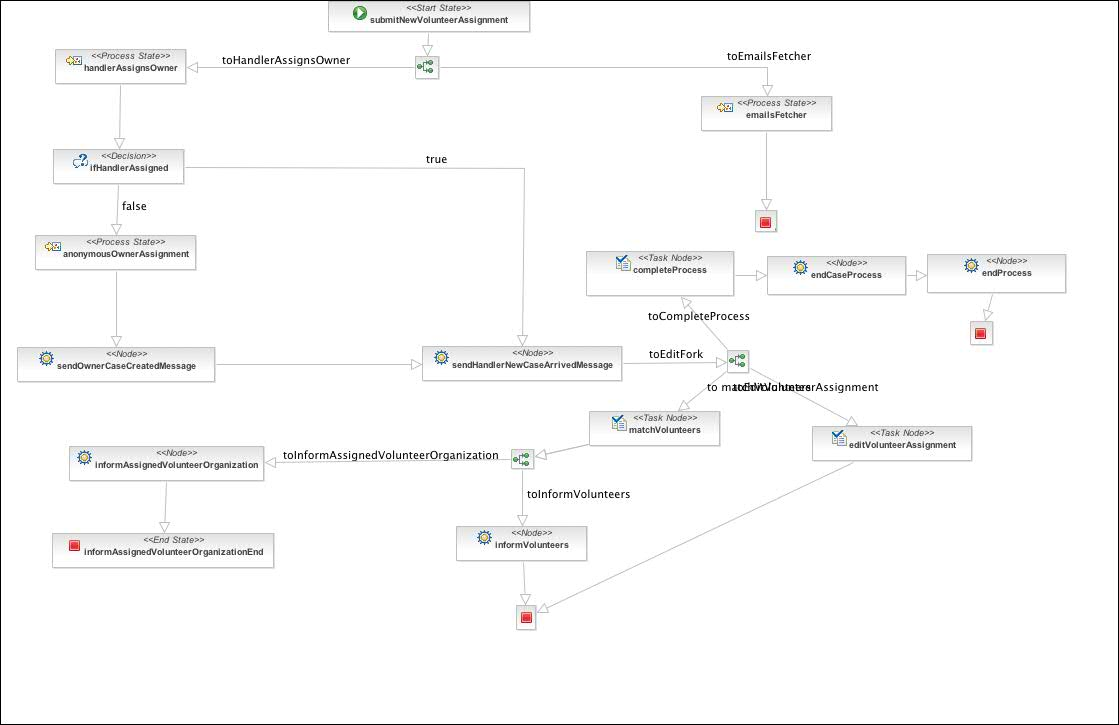
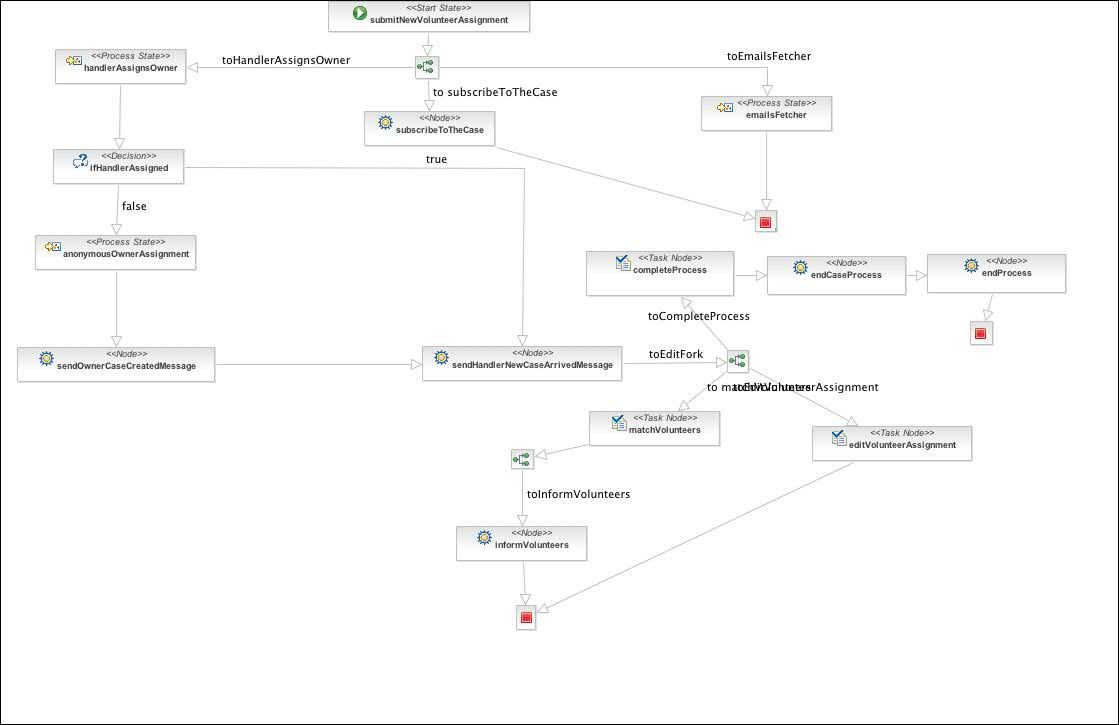
Improving volunteer assignment process

Changed region(s): [[0.0608, 0.6069, 0.4558, 0.6676], [0.3038, 0.1214, 0.4861, 0.2124], [0.0304, 0.7283, 0.2431, 0.789]]

diff --git a/src/java/com/idega/volunteer/business/VolunteerServices.java b/src/java/com/idega/volunteer/business/VolunteerServices.java
@@ -5,6 +5,7 @@ import java.util.ArrayList;
 import java.util.Collection;
 import java.util.Collections;
 import java.util.HashMap;
+import java.util.LinkedHashMap;
 import java.util.Locale;
 import java.util.Map;
 import java.util.logging.Level;
@@ -176,7 +177,7 @@ public class VolunteerServices extends DefaultSpringBean implements ApplicationL
 	public Map<Locale, Map<String, String>> getVolunteerAreasOfInterest() {
 		Map<Locale, Map<String, String>> areas = new HashMap<Locale, Map<String,String>>();
 		
-		Map<String, String> localizedAreas = new HashMap<String, String>();
+		Map<String, String> localizedAreas = new LinkedHashMap<String, String>();
 		areas.put(getCurrentLocale(), localizedAreas);
 		
 		IWResourceBundle iwrb = getResourceBundle(getBundle(VolunteerConstants.IW_BUNDLE_IDENTIFIER));
@@ -192,6 +193,37 @@ public class VolunteerServices extends DefaultSpringBean implements ApplicationL
 		localizedAreas.put("association_mission", iwrb.getLocalizedString("association_mission", "Association mission"));
 		localizedAreas.put("computer_it_help", iwrb.getLocalizedString("computer_it_help", "Computer/IT Help"));
 		localizedAreas.put("other", iwrb.getLocalizedString("other", "Other"));
+		
+		return areas;
+	}
+	
+	public Map<Locale, Map<String, String>> getVolunteerAssignmentAreas() {
+		Map<Locale, Map<String, String>> areas = new HashMap<Locale, Map<String,String>>();
+		
+		Map<String, String> localizedAreas = new LinkedHashMap<String, String>();
+		areas.put(getCurrentLocale(), localizedAreas);
+		
+		localizedAreas.put("bankeryd", "Bankeryd");
+		localizedAreas.put("barnarp", "Barnarp");
+		localizedAreas.put("bottnaryd", "Bottnaryd");
+		localizedAreas.put("granna", "Gränna");
+		localizedAreas.put("hovslatt", "Hovslätt");
+		localizedAreas.put("huskvarna", "Huskvarna");
+		localizedAreas.put("jonkoping_soder", "Jönköping söder");
+		localizedAreas.put("jonkoping_oster", "Jönköping öster");
+		localizedAreas.put("jonkoping_vaster", "Jönköping väster");
+		localizedAreas.put("jonkoping_centrum", "Jönköping centrum");
+		localizedAreas.put("kaxholmen", "Kaxholmen");
+		localizedAreas.put("lekeryd", "Lekeryd");
+		localizedAreas.put("mansarp", "Månsarp");
+		localizedAreas.put("norrahammar", "Norrahammar");
+		localizedAreas.put("skarstad", "Skärstad");
+		localizedAreas.put("taberg", "Taberg");
+		localizedAreas.put("tenhult", "Tenhult");
+		localizedAreas.put("visingso", "Visingsö");
+		localizedAreas.put("olmstad", "Ölmstad");
+		localizedAreas.put("oxnehaga", "Öxnehaga");
+		localizedAreas.put("hela_kommunen", "Hela kommunen");
 		
 		return areas;
 	}

diff --git a/src/java/com/idega/volunteer/handler/VolunteerAccountHandler.java b/src/java/com/idega/volunteer/handler/VolunteerAccountHandler.java
@@ -34,11 +34,13 @@ import com.idega.util.ListUtil;
 import com.idega.util.StringUtil;
 import com.idega.util.expression.ELUtil;
 
-@Service("volunteerAccountHandler")
 @Scope(BeanDefinition.SCOPE_SINGLETON)
+@Service(VolunteerAccountHandler.BEAN_NAME)
 public class VolunteerAccountHandler extends DefaultSpringBean implements ActionHandler {
 
 	private static final long serialVersionUID = 8670482203630603777L;
+
+	static final String BEAN_NAME = "volunteerAccountHandler";
 	
 	private Long processInstanceId;
 	
@@ -109,7 +111,7 @@ public class VolunteerAccountHandler extends DefaultSpringBean implements Action
 		}
 		
 		try {
-			subscribeOrUnsubscribe(user, true);
+			subscribeOrUnsubscribe(user, true, getProcessInstanceId());
 		} catch (RemoteException e) {
 		} catch (FinderException e) {}
 		
@@ -117,8 +119,12 @@ public class VolunteerAccountHandler extends DefaultSpringBean implements Action
 		volunteerHandler.enableOrDisableLogin(user, false);
 	}
 	
-	private void subscribeOrUnsubscribe(User user, boolean subscribe) throws RemoteException, FinderException {
-		CaseProcInstBind caseProcBind = getCasesDAO().getCaseProcInstBindByProcessInstanceId(getProcessInstanceId());
+	public void subscribeToTheCase(User user, Long proccessInstanceId) throws Exception {
+		subscribeOrUnsubscribe(user, true, proccessInstanceId);
+	}
+	
+	private void subscribeOrUnsubscribe(User user, boolean subscribe, Long processInstanceId) throws RemoteException, FinderException {
+		CaseProcInstBind caseProcBind = getCasesDAO().getCaseProcInstBindByProcessInstanceId(processInstanceId);
 		CaseBusiness caseBusiness = getServiceInstance(CasesBusiness.class);
 		Case theCase = caseBusiness.getCase(caseProcBind.getCaseId());
 		Collection<User> subscribers = theCase.getSubscribers();
@@ -269,7 +275,7 @@ public class VolunteerAccountHandler extends DefaultSpringBean implements Action
 			throw new RuntimeException("User can not be found by personal ID: " + getPersonalId(context));
 		
 		try {
-			subscribeOrUnsubscribe(user, false);
+			subscribeOrUnsubscribe(user, false, getProcessInstanceId());
 		} catch (RemoteException e) {
 		} catch (FinderException e) {
 		}

diff --git a/src/java/com/idega/volunteer/handler/VolunteerAssignmentHandler.java b/src/java/com/idega/volunteer/handler/VolunteerAssignmentHandler.java
@@ -11,6 +11,9 @@ import org.springframework.stereotype.Service;
 
 import com.idega.core.business.DefaultSpringBean;
 import com.idega.user.business.UserBusiness;
+import com.idega.user.data.User;
+import com.idega.util.expression.ELUtil;
+import com.idega.volunteer.VolunteerConstants;
 
 @Service("volunteerAssignmentHandler")
 @Scope(BeanDefinition.SCOPE_PROTOTYPE)
@@ -21,11 +24,27 @@ public class VolunteerAssignmentHandler extends DefaultSpringBean implements Act
 	private Long processInstanceId;
 	
 	public void execute(ExecutionContext executionContext) throws Exception {
+		subscribeToTheCase(executionContext);
+		
+		
 		Object assignedVolunteers = executionContext.getVariable("list_volunteerAssignmentVolunteers");
 		sendNotifications(assignedVolunteers);
 		
 		Object proposedVolunteers = executionContext.getVariable("list_volunteerAssignmentProposedVolunteers");
 		sendNotifications(proposedVolunteers);
+	}
+	
+	private void subscribeToTheCase(ExecutionContext context) {
+		User volunteerOrganization = getCurrentUser();
+		if (volunteerOrganization == null || !getApplication().getAccessController().hasRole(volunteerOrganization, VolunteerConstants.ROLE_VOLUNTEER_ORGANIZATION))
+			return;
+		
+		try {
+			VolunteerAccountHandler volunteerHandler = ELUtil.getInstance().getBean(VolunteerAccountHandler.BEAN_NAME);
+			volunteerHandler.subscribeToTheCase(volunteerOrganization, getProcessInstanceId());
+		} catch (Exception e) {
+			getLogger().log(Level.WARNING, "Error subscribing user " + volunteerOrganization + " the the case based on BPM process: " + getProcessInstanceId(), e);
+		}
 	}
 	
 	private void sendNotifications(Object volunteers) {
